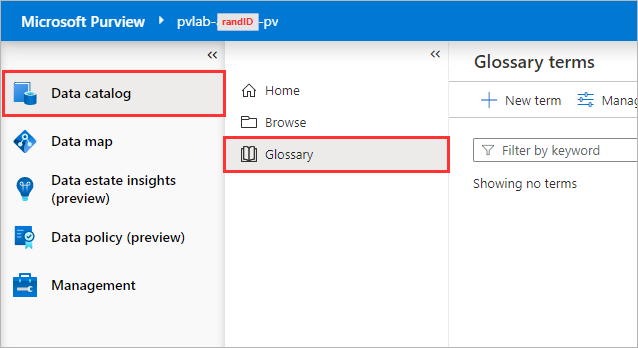
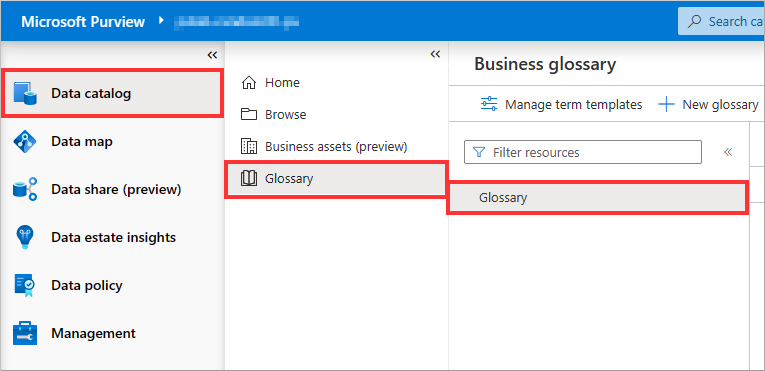
refreshed images

Changed region(s): [[0.0, 0.3448, 0.9828, 0.9483], [0.0, 0.0, 1.0, 0.431], [0.5956, 0.2299, 1.0, 0.3448]]

diff --git a/modules/module04.md b/modules/module04.md
@@ -39,9 +39,33 @@ In this lab you learn how to create terms using a system and custom term templat
 
 <div align="right"><a href="#module-04---glossary">↥ back to top</a></div>
 
+## 1. Create a Glossary
+
+1. Open the **Microsoft Purview Governance Portal** and from the **Data catalog**, navigate to **Glossary**, and click **New glossary**.
+
+    ![ALT](../images/module04/04.30-glossary-new.png)
+
+2. **Copy** and **paste** the values below into the appropriate fields, set your Azure AD identity as the **Steward** and **Expert**, and click **Create**.
+
+    ![ALT](../images/module04/04.31-glossary-create.png)
+
+    **Name**
+
+    ```text
+    Glossary
+    ```
+
+    **Description**
+
+    ```text
+    A glossary is a vocabulary of business terms that can be mapped to assets like a database, tables, columns etc. Glossary terms can help establish a common language across the business, abstracting the technical jargon typically associated with data repositories.
+    ```
+
+<div align="right"><a href="#module-04---glossary">↥ back to top</a></div>
+
 ## 1. Create a Term (System Default Term Template)
 
-1. Open the **Microsoft Purview Governance Portal** and from the **Data catalog**, click **Glossary**.
+1. Open the **Microsoft Purview Governance Portal** and from the **Data catalog**, navigate to **Glossary**, and select **Glossary**.
 
     ![ALT](../images/module04/04.00-manage-glossary.png)
 
@@ -88,14 +112,14 @@ In this lab you learn how to create terms using a system and custom term templat
     **Resource Link**
 
     ```text
-    https://aka.ms/Azure-Purview
+    https://aka.ms/MicrosoftPurview
     ```
 
 <div align="right"><a href="#module-04---glossary">↥ back to top</a></div>
 
 ## 2. Create a Term (Custom Term Template)
 
-1. Open the **Microsoft Purview Governance Portal** and from the **Data catalog**, click **Glossary**.
+1. Open the **Microsoft Purview Governance Portal** and from the **Data catalog**, navigate to **Glossary**, and select **Glossary**.
 
     ![ALT](../images/module04/04.00-manage-glossary.png)
 
@@ -157,7 +181,7 @@ In this lab you learn how to create terms using a system and custom term templat
     Marketing
     ```
 
-9. From the **Glossary** screen, change the view to **Hierarchical view** to see the hierarchical glossary.
+9. From the **Glossary** screen, select **Terms**, then toggle the view to **Hierarchical view** to see the hierarchical glossary.
 
     ![ALT](../images/module04/04.11-glossary-table.png)
 

diff --git a/modules/module03.md b/modules/module03.md
@@ -159,7 +159,7 @@ Microsoft Purview allows us to perform certain operations (add/replace/remove) a
 
     ![Search Wildcard](../images/module03/03.01-search-wildcard.png)
 
-2. Hover your mouse over an item in the list to reveal the checkbox on the right-hand side. Select five items and click **View selected**.
+2. Filter the results to **File** and **Table**, select the first five items in the search results, and click **View selected**.
 
     ![View Selected](../images/module03/03.13-bulk-view.png)
 
